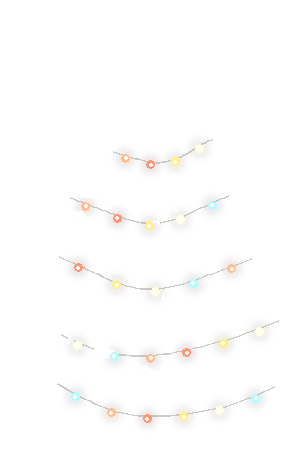
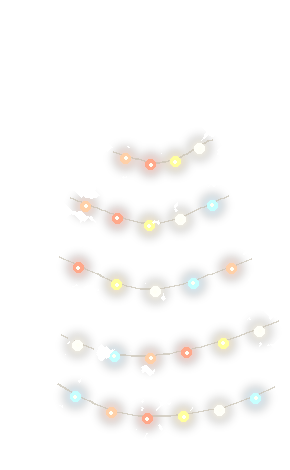
Раунд 8 (без релиза, 2.0.5-pre): 7 замечаний автора по перегенерённой галерее
- банка смазки/сачок/швабра (B): на полку/крышку/дверцу шкафа + синхронные хотспоты
- цифры кейпада перепромерены по центрам всех кнопок (кол.1 +11px, кол.2 +4px)
- открытые вентрешётки util+офис: полностью накрывают закрытые грили
  (увеличение + тёмный бэкинг под футпринт грили, gen_vents_r7), день+ночь
- дневная гирлянда усилена (лампочки с glow читаются в масштабе комнаты)
- пар кофемашины: ОДИН анимируемый катаут, посажен вплотную над кружкой
- DoD-конвейер целиком PASS; галерея перегенерена (49 кадров + 5 листов)
- QA_JOURNAL/BUILDLOG раунд 8; ответы автора р7 (ящик-в-зуме, красная кнопка) — приняты

diff --git a/tools/gen_scene.py b/tools/gen_scene.py
@@ -113,17 +113,18 @@ A_cutouts = [
        pos_day=[1728, 262]),
     CO("cutouts/st_wheel_wall.png", [1002, 206], 0.52, z=20,
        hide_on=["done:take_wheel"]),
-    # открытая решётка ТОЧНО поверх закрытой из фона (промер грили ночь/день)
-    # (раунд 7) катаут цветокорректирован под фон (ночь/день), высота ×0.75;
-    # посажен так, чтобы ПОЛНОСТЬЮ накрыть закрытую грилю и не лезть на шкаф
-    CO("cutouts/st_vent_open_office.png", [1252, 120], 0.85, z=20,
+    # открытая решётка накрывает закрытую грилю офиса (x1282..1405 y138..203)
+    # (раунд 7) цветокоррекция, высота ×0.75; (раунд 8) ×0.95, центр по гриле
+    # день+ночь + тёмный бэкинг (gen_vents_r7)
+    CO("cutouts/st_vent_open_office.png", [1242, 116], 0.95, z=20,
        show_on=["vents_open"],
-       img_day="cutouts/st_vent_open_office_day.png", pos_day=[1254, 128]),
+       img_day="cutouts/st_vent_open_office_day.png", pos_day=[1244, 114]),
     CO("cutouts/st_gift.png", [430, 600], 0.62, z=20, hide_on=["done:take_gift"]),
     # (раунд 7) открытый ящик Иры перенесён В ЗУМ тумбы (zoom_drawer_keypad):
     # на вайде тумба остаётся ЗАКРЫТОЙ (см. zoom cutouts + hs_ira_drawer_out там)
-    # (раунд 7) процедурная гирлянда по силуэту ёлки (tools/gen_garland.py):
+    # процедурная гирлянда по силуэту ёлки (tools/gen_garland.py):
     # нити+лампочки glow, обрезаны маской ёлки; ночь ярче, день бледнее (img_day)
+    # (раунд 8: дневные лампочки/glow усилены — читаются в масштабе комнаты)
     CO("cutouts/st_garland_on.png", [360, 150], 1.0, z=30,
        show_on=["garland_on"], glow=True,
        img_day="cutouts/st_garland_on_day.png"),
@@ -150,10 +151,12 @@ A_cutouts = [
        img_day="cutouts/st_util_door_open_day.png", pos_day=[1695, 287]),
     CO("cutouts/st_door_open_final.png", [1476, 178], 0.62, z=40,
        show_on=["victory"], pos_day=[1512, 176]),
-    # идл: рыбка в аквариуме на вайде (мелкая), пар над кофе
+    # идл: рыбка в аквариуме (мелкая), пар над кофе.
+    # (раунд 8) пар — ОДИН катаут frames=[a,b,c] idle="steam" (чередует по
+    # одному кадру, не суммирует); посажен вплотную над кружкой
     CO("cutouts/st_fish_a.png", [952, 412], 0.36, z=18, idle="fish_wide",
        frames=["cutouts/st_fish_a.png", "cutouts/st_fish_b.png"]),
-    CO("cutouts/st_steam_a.png", [1150, 230], 0.5, z=22, idle="steam",
+    CO("cutouts/st_steam_a.png", [1199, 380], 0.42, z=22, idle="steam",
        frames=["cutouts/st_steam_a.png", "cutouts/st_steam_b.png",
                "cutouts/st_steam_c.png"], show_on=["sockets_on"]),
 ]
@@ -174,7 +177,7 @@ B_hotspots = [
        cursor="zoom"),
     HS("hs_bench", [585, 380, 480, 220], goto="zoom_bench", name="Стенд",
        cursor="zoom"),
-    HS("hs_shelf_grease", [1150, 452, 112, 66], node="take_grease", name="Смазка",
+    HS("hs_shelf_grease", [1150, 462, 112, 72], node="take_grease", name="Смазка",
        hide_on=["done:take_grease"]),
     HS("hs_shelf", [1005, 190, 310, 620], name="Стеллаж", look=True),
     HS("hs_attic", [1005, 190, 305, 115], goto="zoom_attic", name="Антресоль",
@@ -185,12 +188,12 @@ B_hotspots = [
        name="Коробка (ещё раз)", show_on=["item:relic_fez"], hide_on=["item:crown"]),
     HS("hs_closet", [1310, 190, 285, 690], goto="zoom_closet", name="Шкаф уборщицы",
        cursor="zoom"),
-    HS("hs_net_top", [1398, 150, 122, 118], node="see_net", name="Верх шкафа",
+    HS("hs_net_top", [1398, 138, 122, 120], node="see_net", name="Верх шкафа",
        hide_on=["net_down"]),
     HS("hs_net_floor", [1290, 885, 240, 185], node="take_net", name="Сачок",
        show_on=["net_down"], hide_on=["done:take_net"]),
     HS("hs_vent_util", [1385, 50, 180, 145], name="Вентрешётка", look=True),
-    HS("hs_mop", [1570, 340, 100, 230], node="take_mop", name="Швабра",
+    HS("hs_mop", [1555, 332, 72, 180], node="take_mop", name="Швабра",
        hide_on=["done:take_mop"], doc_rmb="doc_mop_tag"),
     HS("hs_boiler", [1655, 80, 195, 440], node="h_boiler", name="Бойлер"),
     HS("hs_sink", [1600, 590, 255, 175], name="Раковина", look=True),
@@ -199,19 +202,22 @@ B_hotspots = [
     HS("hs_bucket", [1560, 780, 135, 160], name="Ведро", look=True),
 ]
 B_cutouts = [
-    # сачок лежит на крышке шкафа (y~205) с правдоподобным свесом за передний край
-    CO("cutouts/st_net_on_top.png", [1360, 150], 0.80, z=20,
+    # сачок лежит на КРЫШКЕ шкафа со свесом за передний край
+    # (раунд 8: поднят на ~17px — не «прилипает» к верхнему краю, лежит на крышке)
+    CO("cutouts/st_net_on_top.png", [1360, 133], 0.80, z=20,
        hide_on=["net_down"]),
     CO("cutouts/st_net_on_floor.png", [1296, 892], 0.86, z=20,
        show_on=["net_down"], hide_on=["done:take_net"]),
-    # открытая решётка ТОЧНО поверх закрытой грили (x1385..1560 y50..190)
-    # (раунд 7) цветокоррекция под фон подсобки (тёмная ночь / тёплый день)
-    CO("cutouts/st_vent_open_util.png", [1376, 46], 1.0, z=20,
+    # открытая решётка ПОЛНОСТЬЮ накрывает закрытую грилю (x1390..1577 y62..183)
+    # (раунд 7) цветокоррекция; (раунд 8) ×1.58 + тёмный бэкинг под грилю
+    CO("cutouts/st_vent_open_util.png", [1327, 24], 1.58, z=20,
        show_on=["vents_open"], img_day="cutouts/st_vent_open_util_day.png"),
-    CO("cutouts/st_mop_on_hook.png", [1556, 258], 0.78, z=20, hide_on=["done:take_mop"]),
-    # (раунд 7) банка литола стоит НА полке (низ на линию полки y~515),
-    # программная тень-эллипс под ней (shadow)
-    CO("cutouts/st_grease_on_shelf.png", [1134, 440], 0.82, z=20,
+    # швабра на крюке-вешалке ПЕРЕНЕСЕНА на деревянную дверцу шкафа уборщицы
+    # (раунд 8: раньше висела в зазоре шкаф/бойлер — на тёмном фоне «парила»)
+    CO("cutouts/st_mop_on_hook.png", [1512, 258], 0.78, z=20, hide_on=["done:take_mop"]),
+    # банка литола СТОИТ на полке, тень-эллипс под ней
+    # (раунд 8: опущена ещё на 12px — низ строго на полке ~y527)
+    CO("cutouts/st_grease_on_shelf.png", [1134, 452], 0.82, z=20,
        shadow=True, hide_on=["done:take_grease"]),
     CO("cutouts/st_box_on_floor.png", [1012, 872], 0.72, z=20,
        show_on=["box_down"]),

diff --git a/tools/gen_vents_r7.py b/tools/gen_vents_r7.py
@@ -11,7 +11,7 @@ CO='assets/gfx/cutouts/'; RM='assets/gfx/rooms/'
 def bg_stats(fn,box):
     a=np.array(Image.open(RM+fn).convert('RGB')).astype(float); x0,y0,x1,y1=box
     s=a[y0:y1,x0:x1].reshape(-1,3); return s.mean(0),s.std(0)
-def transfer(src,box_fn,box,strength,vsquash,dst):
+def transfer(src,box_fn,box,strength,vsquash,dst,backing=None):
     tgt_m,tgt_s=bg_stats(box_fn,box)
     im=Image.open(src).convert('RGBA'); a=np.array(im).astype(float); m=a[...,3]>20
     for c in range(3):
@@ -19,11 +19,19 @@ def transfer(src,box_fn,box,strength,vsquash,dst):
         new=(ch-cm)*(tgt_s[c]/cs)+tgt_m[c]; a[...,c][m]=np.clip(ch*(1-strength)+new*strength,0,255)
     out=Image.fromarray(a.astype('uint8'),'RGBA')
     if vsquash: w,h=out.size; out=out.resize((w,int(round(h*vsquash))),Image.LANCZOS)
+    if backing:  # р8: тёмный бэкинг под ГРИЛЮ (не под свес флапа), чтобы закрытая
+                 # решётка фона не подсвечивалась сквозь прозрачные дырки открытого арта
+        ax0,ay0,ax1,ay1=backing; arr=np.array(out); al=arr[...,3]
+        op=arr[al>120][:,:3]
+        dark=(np.percentile(op,18,axis=0) if len(op) else np.array([38,38,42])).astype('uint8')
+        reg=np.zeros(al.shape,bool); reg[ay0:ay1,ax0:ax1]=True; holes=reg&(al<60)
+        arr[holes,0]=dark[0]; arr[holes,1]=dark[1]; arr[holes,2]=dark[2]; arr[holes,3]=255
+        out=Image.fromarray(arr,'RGBA')
     out.save(CO+dst); nt=np.array(out)[np.array(out)[...,3]>40][:,:3]
     print(f"  {dst} {out.size} mean={nt.mean(0).astype(int)}")
 OG='work/orig_st_vent_open_office_v0.png'; OU='work/orig_st_vent_open_util_v0.png'
 GB=(1262,145,1397,205); UB=(1390,55,1560,185)
-transfer(OG,'room_office_night.png',GB,0.85,0.75,'st_vent_open_office.png')
-transfer(OG,'room_office_day.png',  GB,0.85,0.75,'st_vent_open_office_day.png')
-transfer(OU,'room_utility_night.png',UB,0.80,None,'st_vent_open_util.png')
-transfer(OU,'room_utility_day.png',  UB,0.85,None,'st_vent_open_util_day.png')
+transfer(OG,'room_office_night.png',GB,0.85,0.75,'st_vent_open_office.png', backing=(38,20,172,100))
+transfer(OG,'room_office_day.png',  GB,0.85,0.75,'st_vent_open_office_day.png', backing=(38,20,172,100))
+transfer(OU,'room_utility_night.png',UB,0.80,None,'st_vent_open_util.png', backing=(38,24,160,102))
+transfer(OU,'room_utility_day.png',  UB,0.85,None,'st_vent_open_util_day.png', backing=(38,24,160,102))

diff --git a/tools/gen_garland.py b/tools/gen_garland.py
@@ -40,7 +40,9 @@ def build(night=True):
     d=ImageDraw.Draw(layer); dg=ImageDraw.Draw(glow)
     # цвета лампочек (тёплые)
     cols=[(255,120,90),(255,210,110),(255,240,200),(150,220,255),(255,160,120)]
-    wire=(210,205,190,150) if night else (150,150,140,120)
+    # р8: дневная гирлянда заметно ярче (читается в полнокадровом масштабе),
+    #     но всё же бледнее ночной
+    wire=(210,205,190,150) if night else (200,193,178,175)
     # уровни нитей по высоте ёлки (доля высоты маски)
     for frac in [0.30,0.42,0.55,0.68,0.82]:
         yy=int(mh*frac)
@@ -70,12 +72,13 @@ def build(night=True):
             xi,yi=int(x),int(y)
             if not(0<=yi<mh and 0<=xi<mw and mask[min(yi,mh-1),xi]): continue
             col=cols[(k+int(frac*10))%len(cols)]
-            gr=11 if night else 7
-            dg.ellipse([x-gr,y-gr,x+gr,y+gr],fill=(col[0],col[1],col[2],110 if night else 55))
-            cr=4
-            d.ellipse([x-cr,y-cr,x+cr,y+cr],fill=(min(255,col[0]+30),min(255,col[1]+30),min(255,col[2]+30),255))
+            gr=11 if night else 10
+            dg.ellipse([x-gr,y-gr,x+gr,y+gr],fill=(col[0],col[1],col[2],115 if night else 100))
+            cr=4 if night else 5
+            cb=30 if night else 48
+            d.ellipse([x-cr,y-cr,x+cr,y+cr],fill=(min(255,col[0]+cb),min(255,col[1]+cb),min(255,col[2]+cb),255))
             d.ellipse([x-1.5,y-1.5,x+1.5,y+1.5],fill=(255,255,245,255))
-    glow=glow.filter(ImageFilter.GaussianBlur(5 if night else 4))
+    glow=glow.filter(ImageFilter.GaussianBlur(5 if night else 5))
     out=Image.alpha_composite(glow,layer)
     # финальная обрезка по маске (нити/glow только на ёлке; лампочкам даём +2px)
     md=ndimage.binary_dilation(mask,iterations=3)

diff --git a/tools/gen_keypad_digits.py b/tools/gen_keypad_digits.py
@@ -8,7 +8,7 @@
 from PIL import Image, ImageDraw, ImageFont
 im=Image.open('work/orig_zoom_drawer_keypad_nodigits.png').convert('RGBA')
 d=ImageDraw.Draw(im)
-cols=[732,790,846]; rows=[440,495,543,590]
+cols=[743,794,844]; rows=[444,494,540,589]  # р8: перепромер центров кнопок
 labels=[["1","2","3"],["4","5","6"],["7","8","9"],["C","0","OK"]]
 def fnt(sz): return ImageFont.truetype('assets/fonts/PTSans-Bold.ttf',sz)
 for ri,row in enumerate(rows):

diff --git a/docs/QA_JOURNAL.md b/docs/QA_JOURNAL.md
@@ -132,3 +132,24 @@ CLUE AUDIT PASS · FUZZ 3×25000 PASS · verify-листы OK · ap_smoke 1536×
 | 9 | Открытый ящик Иры «прилеплен к закрытой дверце» (вайд) | ✦ перенесён: на ВАЙДЕ тумба остаётся ЗАКРЫТОЙ; открытый ящик (катаут) + hs_ira_drawer_out показываются ТОЛЬКО в зуме тумбы (zoom_drawer_keypad). Автоплей/галерея поправлены (клик ящика в зуме), гаунтлет PASS. ✋ ВОПРОС автору: устраивает ли смена видимости (альтернатива — новый ассет) |
 | 10 | «Огромный красный индикатор» над аквариумом (кадр 46) | ✔ ДИАГНОЗ промерами: это НЕ катаут с неверным pos и НЕ фон — это БИТЫЙ интейк-ассет st_steam_c.png: 3-й кадр анимации пара над кофе оказался нарисованной красной кнопкой (пар циклит a→b→c, кадр 46 снят на фазе c). Перегенерил st_steam_c как настоящий серый пар (зеркало a); оригинал → work/orig_st_steam_c_redbutton_v0.png. «Законного места» на панели сигнализации нет — там уже штатный alarm-LED |
 | 11 | Коробка в zoom_attic мелкая, неверная перспектива | ✦ крупнее (scale 0.86→1.3) и посажена на «пыльный след» полки (промер зума). ✋ ВОПРОС автору: сам арт катаута — фронтальная коробка на top-down полке (родовая нестыковка перспективы); при желании — перегенерация арта под ракурс антресоли |
+
+
+## Раунд 8 (без релиза — авторская ревизия перегенерённой галереи, 2.0.5-pre)
+Метод: осмотр кадра → промеры numpy → правка генератора → контрольный композит/скрин.
+Ответы автора по вопросам раунда 7: ящик Иры показывается только в зуме тумбы
+(р7 №9) — **ПРИНЯТО**; пар-«красная кнопка» → серый пар (р7 №10) — **ПРИНЯТО**.
+
+| # | Замечание | Статус |
+|---|---|---|
+| 1 | (12/40 B) банка смазки не стоит на полке; сачок «прилип» к верхнему краю шкафа | ✔ банка pos_y 440→452 (низ строго на полке ~y527, промер ночь+день), hs_shelf_grease синхронно; сачок pos_y 150→133 (поднят ~17px — лежит на КРЫШКЕ со свесом, не липнет к краю), hs_net_top синхронно |
+| 2 | (12) швабра «снаружи шкафа в воздухе», на тёмном фоне крюк не виден | ✔ катаут (в нём УЖЕ есть крюк-вешалка) перенесён из зазора шкаф/бойлер на ДЕРЕВЯННУЮ дверцу шкафа уборщицы (pos_x 1556→1512): крюк читается на дереве и днём, и ночью; hs_mop синхронно. Арт не трогал (дорисовывать крюк-гвоздь не понадобилось) |
+| 3 | (29) цифры 1-го и 2-го столбцов кейпада не попали в кнопки | ✔ перепромер центров кнопок арта (3 метода — контраст-СКО, яркие «лица», профиль яркости; консенсус): было cols [732,790,846]/rows [440,495,543,590] → стало [743,794,844]/[444,494,540,589] (кол.1 +11px, кол.2 +4px). tools/gen_keypad_digits.py |
+| 4 | (40 B) открытый вент util МЕНЬШЕ закрытой грили — из-под видна закрытая | ✔ грила промерена (x1390..1577 y62..183, день=ночь); катаут ×1.0→1.58, pos [1327,24]; + тёмный БЭКИНГ под футпринт грили (заливка прозрачных дырок арта цветом нутра воздуховода) в gen_vents_r7.py — закрытая не подсвечивается ни днём, ни ночью. Цветокоррекция р7 сохранена |
+| 5 | (41/42/46 A день) включённая гирлянда днём не видна | ✔ **ДИАГНОЗ:** дневной файл ЕСТЬ, маска верна (силуэт ёлки день=ночь), лампочки нарисованы (maxA 255) — но glow был вдвое слабее ночного (α55 vs 110, r7) и в масштабе кадра комнаты (ёлка ~180px) терялся; не «сломано», а слишком бледно. Фикс: дневной glow α55→100, r 7→10, ядро лампы r4→5, ярче нити (gen_garland.py). Бледнее ночи, но читаемо. Контроль: кадр 41 |
+| 6 | (41/42/46 A день) вент офиса днём уехал с решётки (ночь, кадр 14 — норма) | ✔ грила офиса промерена (x1282..1405 y138..203, день≈ночь); **ДИАГНОЗ:** правый край арта прозрачный → закрытая грила подсвечивалась справа даже при верном bbox. Катаут ×0.85→0.95, отцентрован по гриле (pos [1242,116]/pos_day [1244,114]) + тёмный бэкинг (см. №4). Контроль: кадр 41 (день) и кадр 14 (ночь — без регресса) |
+| 7 | (41/42/46) пар кофемашины далеко от неё; «видны 3-я фаза и кусок 2-й» | ✔ **ДИАГНОЗ:** гипотеза «три отдельных CO» НЕВЕРНА — пар УЖЕ один катаут frames=[a,b,c] idle="steam", движок (scenes.lua draw_cutout) чередует ПО ОДНОМУ кадру (period 0.5с), не суммирует. Реальные причины: (а) pos [1150,230] — на ~150px выше носика, висел на стене; (б) фазы арта «гуляют» по X (центроиды 102/78/43) — застывший кадр читался как «две фазы». Фикс: pos [1199,380], scale 0.5→0.42 — база вплотную над кружкой (промер x1218..1243, y~455); 3 фазы подряд проверены (композит + кадр 41) — чередуются, не суммируются |
+
+Гейты: STATE CORE / GATE1 / GATE2 / selftest / autoplay(69 шагов) / PIXEL GATES
+(маджента 18 скринов, WCAG ≥7:1, яркость A 47% / B 13%, силуэты 0 слабых) /
+FUZZ 3×25000 / trace+clue / letterbox-смок 1536×864 — **ВСЕ PASS**.
+Галерея work/gallery/ перегенерена целиком (49 кадров + 5 контактных листов).

diff --git a/docs/BUILDLOG.md b/docs/BUILDLOG.md
@@ -232,3 +232,11 @@
 Все гейты DoD PASS (STATE CORE, GATE1, GATE2, SELFTEST, гаунтлет x4,
 PIXEL GATES, FUZZ 3×25000, CLUE AUDIT, verify-листы, смок 1536×864).
 Галерея work/gallery/ перегенерена целиком (49 кадров + 5 контактных листов).
+
+### Раунд 8 (2.0.5-pre, без релиза) — правки 7 замечаний по перегенерённой галерее
+Детали и диагнозы — docs/QA_JOURNAL.md, «Раунд 8». Кратко: банка/сачок/швабра (B)
+довешены на полку/крышку/дверцу; цифры кейпада перепромерены по центрам кнопок;
+открытые вентрешётки util+офис полностью накрывают закрытые (×увеличение + тёмный
+бэкинг под грилю, gen_vents_r7); дневная гирлянда усилена (видна в масштабе комнаты);
+пар кофемашины посажен вплотную над кружкой (один анимируемый катаут, не три).
+Все гейты DoD PASS; галерея work/gallery/ перегенерена целиком (49 кадров + 5 листов).
